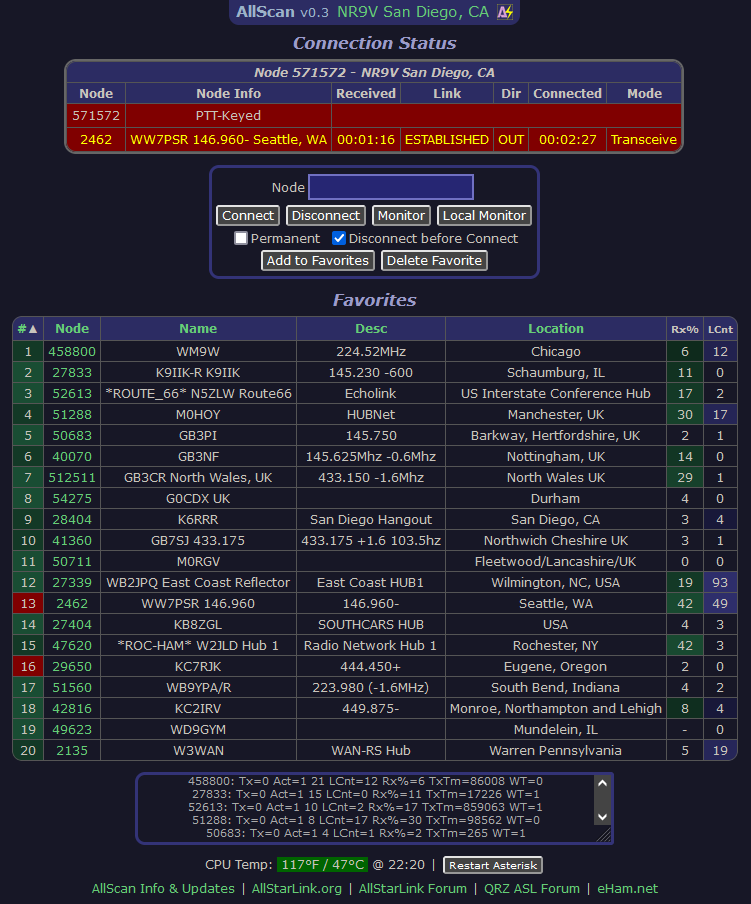
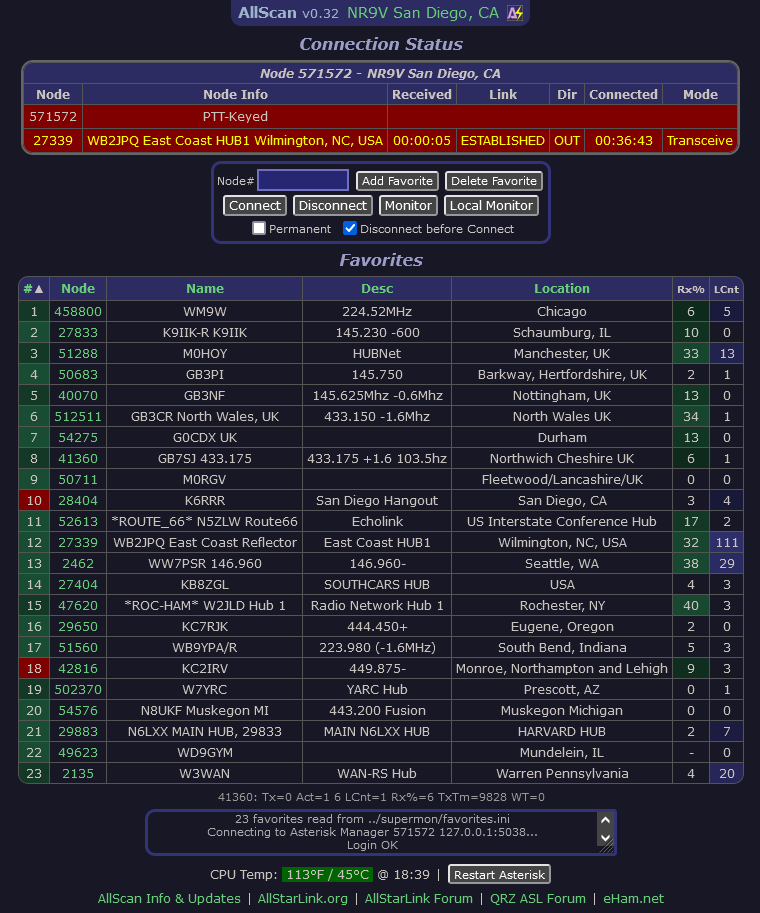
GUI optimizations. Add default favorites file docs/favorites.ini.sample and give user option to copy this to ./favoriies.ini if no favorites.ini file was found in . or ../supermon/.

diff --git a/css/main.css b/css/main.css
@@ -80,15 +80,15 @@ display:inline-block;
 fieldset, #statmsg {
 border:solid 3px rgb(51,51,119);
 padding:3px;
-margin:8px 3px 3px;
+margin:3px;
 border-radius:10px;
 }
 fieldset legend {
 font-size:16px;
 color:hsl(180,75%,50%);
 }
-label {
-font-size:12px;
+form + h2 {
+margin-top:3px;
 }
 header {
 display:inline-block;
@@ -140,12 +140,19 @@ cursor:pointer;
 vertical-align:text-bottom;
 border-radius:0;
 }
+#node {
+border:2px solid hsl(240,40%,60%);
+margin:2px;
+padding:0 2px;
+font-size:14px;
+width:6em;
+}
 #statmsg {
 display:inline-block;
-margin:0.5em;
+margin:3px;
 min-width:460px;
 max-width:750px;
-height:4.4em;
+height:3.3em;
 font-size:0.9em;
 line-height:1.2;
 overflow-y:scroll;
@@ -164,7 +171,7 @@ margin:0 auto;
 clear:both;
 }
 td {
-max-width:24em;
+max-width:32em;
 }
 /* @media screen and (min-width: 750px) {
 	td { max-width:30em; }
@@ -258,8 +265,8 @@ padding:0;
 border-radius:12px;
 }
 
-input[type=button].small, input[type=submit].small {
-font-size:10px;
+label, input[type=button].small, input[type=submit].small {
+font-size:11px;
 }
 
 a.menu {

diff --git a/index.php b/index.php
@@ -2,14 +2,16 @@
 require_once("include/common.php");
 require_once("include/viewUtils.php");
 require_once("include/hwUtils.php");
-define('API', '../supermon/'); // Relative path to AllMon/Supermon directory
 $html = new Html();
-$msg = [];
-
 htmlInit('AllScan - AllStarLink Favorites Management & Scanning Web App');
+
+define('favsini', 'favorites.ini');
+define('smfavsini', '../supermon/favorites.ini');
+$favsFile = file_exists(favsini) ? favsini : (file_exists(smfavsini) ? smfavsini : null);
 
 // Load node and host definitions
 $hosts = [];
+$msg = [];
 $nodes = readAllmonIni($msg, $hosts);
 if(!empty($nodes) && !empty($hosts)) {
 	$node = $nodes[0];
@@ -53,7 +55,7 @@ if(!isset($node) || $astdb === false)
 	asExit(implode(BR, $msg));
 
 $autodisc = !isset($parms['autodisc']) || $parms['autodisc'];
-$remNode = isset($parms['node']) && is_numeric($parms['node']) ? $parms['node'] : '';
+$remNode = (isset($parms['node']) && validDbID($parms['node']) && strlen($parms['node']) < 9) ? $parms['node'] : '';
 ?>
 
 <h2>Connection Status</h2>
@@ -71,10 +73,12 @@ $remNode = isset($parms['node']) && is_numeric($parms['node']) ? $parms['node'] 
 
 <form id="nodeForm" method="post" action="/allscan/">
 <fieldset>
-<input type=hidden id="conncnt" name="conncnt" value="0">
 <input type=hidden id="localnode" name="localnode" value="<?php echo $node ?>">
-<label for="node">Node</label><input type=number id="node" name="node" value="<?php echo $remNode ?>"
-	maxlength="10" style="border:2px solid hsl(240,40%,60%);margin:3px;font-size:14px;width:11em;">
+<input type=hidden id="conncnt" name="conncnt" value="0">
+<label for="node">Node#</label><input type="text" inputmode="numeric" pattern="[0-9]*"
+	id="node" name="node" maxlength="8" value="<?php echo $remNode ?>">
+<input type=submit name="Submit" value="Add Favorite" class="small">
+<input type=submit name="Submit" value="Delete Favorite" class="small">
 <br>
 <input type=button value="Connect" onClick="connectNode('connect');">
 <input type=button value="Disconnect" onClick="disconnectNode();">
@@ -82,10 +86,8 @@ $remNode = isset($parms['node']) && is_numeric($parms['node']) ? $parms['node'] 
 <input type=button value="Local Monitor" onClick="connectNode('localmonitor');">
 <br>
 <input type=checkbox id="permanent"><label for="permanent">Permanent</label>&nbsp;
-<input type=checkbox id="autodisc"<?php if($autodisc) echo ' checked' ?>><label for="autodisc">Disconnect before Connect</label>
-<br>
-<input type=submit name="Submit" value="Add to Favorites">
-<input type=submit name="Submit" value="Delete Favorite">
+<input type=checkbox id="autodisc"<?php if($autodisc) echo ' checked' ?>><label
+	for="autodisc">Disconnect before Connect</label>
 </fieldset>
 </form>
 
@@ -94,11 +96,13 @@ h2('Favorites');
 // Read in favorites.ini
 $favs = [];
 $favcmds = [];
-$favsFile = API . 'favorites.ini';
-if(!file_exists($favsFile)) {
-	p("$favsFile not found. Check Supermon/AllMon install or create blank file with www-data writeable permissions.");
+if(!$favsFile) {
+	msg("favorites.ini not found. Check Supermon install or click below to create file in allscan directory.");
+	echo '<form id="nodeForm" method="post" action="/allscan/"><fieldset>' . NL
+		.'<input type=submit name="Submit" value="Create Favorites.ini File" class="small">' . NL
+		.'</fieldset></form>' . BR;
 } else {
-	$favsIni = parse_ini_file(API . 'favorites.ini', true);
+	$favsIni = parse_ini_file($favsFile, true);
 	if($favsIni === false) {
 		p("Error parsing $favsFile. Check file format/permissions or create file with www-data writeable permissions.");
 	} else {
@@ -131,6 +135,7 @@ if(!file_exists($favsFile)) {
 		}
 		// if(count($favcmds))
 			// varDump($favcmds);
+		$msg[] = _count($favs) . " favorites read from $favsFile";
 	}
 }
 
@@ -212,28 +217,11 @@ asExit();
 
 // ---------------------------------------------------
 
-function sortArray($list, $col, $desc) {
-	$colVals = [];
-	foreach($list as $val)
-		$colVals[] = $val[$col];
-	// Sort the column data while retaining array keys
-	if($desc)
-		arsort($colVals);
-	else
-		asort($colVals);
-	// Reorder the input array
-	$out = [];
-	foreach(array_keys($colVals) as $k)
-		$out[] = $list[$k];
-	return $out;
-}
-
 function processForm($parms, &$msg) {
-	global $astdb;
+	global $astdb, $favsFile;
 	$node = $parms['node'];
-	$fname = API . 'favorites.ini';
 	switch($parms['Submit']) {
-		case "Add to Favorites":
+		case "Add Favorite":
 			$msg[] = "Add Node $node to Favorites requested";
 			if(!validDbID($node)) {
 				$msg[] = "Invalid node#.";
@@ -245,10 +233,10 @@ function processForm($parms, &$msg) {
 			}
 			// Parse file lines and add new favorite after last label,cmd lines.
 			// Note: Does not look at [general] or [node#] sections (TBI)
-			if(($favs = readFileLines($fname, $msg, true)) === false)
+			if(($favs = readFileLines($favsFile, $msg, true)) === false)
 				break;
 			$n = count($favs);
-			$msg[] = "$n lines read from $fname";
+			$msg[] = "$n lines read from $favsFile";
 			$lastCmdLn = 0;
 			for($i=0; $i < $n; $i++) {
 				if(strpos($favs[$i], 'cmd[]') === 0) {
@@ -269,9 +257,9 @@ function processForm($parms, &$msg) {
 			$cmd = "cmd[] = \"rpt cmd %node% ilink 3 $node\"";
 			array_splice($favs, $insertLn, 0, [$label, $cmd, '']);
 			$n = count($favs);
-			if(!writeFileLines($fname, $favs, $msg))
+			if(!writeFileLines($favsFile, $favs, $msg))
 				break;
-			$msg[] = "Successfully wrote $n lines to $fname";
+			$msg[] = "Successfully wrote $n lines to $favsFile";
 			break;
 		case "Delete Favorite":
 			$msg[] = "Delete Node $node from Favorites requested";
@@ -281,23 +269,23 @@ function processForm($parms, &$msg) {
 			}
 			// Parse file lines and delete favorite's label,cmd lines.
 			// Note: Does not look for [general] or [node#] sections
-			if(($favs = readFileLines($fname, $msg, true)) === false)
+			if(($favs = readFileLines($favsFile, $msg, true)) === false)
 				break;
 			$n = count($favs);
-			$msg[] = "$n lines read from $fname";
+			$msg[] = "$n lines read from $favsFile";
 			$lastCmdLn = 0;
 			for($i=0; $i < $n; $i++) {
 				if(strpos($favs[$i], 'cmd[]') == 0 && strpos($favs[$i], " $node\""))
 					$delLn = $i + 1;
 			}
 			if(!isset($delLn)) {
-				$msg[] = "Node $node not found in $fname";
+				$msg[] = "Node $node not found in $favsFile";
 				break;
 			}
 			$nLines = 2;
 			$startLn = $delLn - $nLines;
 			if($startLn <= 0) {
-				$msg[] = "Invalid $fname format";
+				$msg[] = error("Invalid $favsFile format");
 				break;
 			}
 			// Also delete blank line after entry if present
@@ -306,9 +294,36 @@ function processForm($parms, &$msg) {
 			for($i=0; $i < $nLines; $i++)
 				unset($favs[$startLn + $i]);
 			$n = count($favs);
-			if(!writeFileLines($fname, $favs, $msg))
+			if(!writeFileLines($favsFile, $favs, $msg))
 				break;
-			$msg[] = "Successfully wrote $n lines to $fname";
+			$msg[] = "Successfully wrote $n lines to $favsFile";
+			break;
+		case "Create Favorites.ini File":
+			$from = 'docs/favorites.ini.sample';
+			$to = favsini;
+			if(copy($from, $to)) {
+				$msg[] = "Copied $from to $to OK";
+				chmod($to, 0664);
+				$favsFile = $to;
+			} else {
+				$msg[] = error("Copy $from to $to Error. Check directory permissions.");
+			}
 			break;
 	}
+}
+
+function sortArray($list, $col, $desc) {
+	$colVals = [];
+	foreach($list as $val)
+		$colVals[] = $val[$col];
+	// Sort the column data while retaining array keys
+	if($desc)
+		arsort($colVals);
+	else
+		asort($colVals);
+	// Reorder the input array
+	$out = [];
+	foreach(array_keys($colVals) as $k)
+		$out[] = $list[$k];
+	return $out;
 }

diff --git a/stats/stats.php b/stats/stats.php
@@ -21,10 +21,6 @@ foreach($nodes as $n) {
 	}
 }
 $cnt = count($nodes);
-
-//sendData(['status' => "$cnt valid nodes in request"], 'stats');
-//exit();
-
 $stats = [];
 $time = time();
 

diff --git a/README.md b/README.md
@@ -11,15 +11,15 @@ See [screenshot.png](https://github.com/davidgsd/AllScan/blob/main/screenshot.pn
 
 4. Allow favorites to be easily edited, deleted, and copied/pasted.
 
-5. Allow 'Scanning' of Favorites and other nodes by leveraging the ASL database and info such as Keyed status and Connected Nodes data. AllScan shows what favorites are active and have recently been active, and in a future release will allow connecting to favorites one at a time sequentially and if no activity after a configurable time then disconnecting and moving to the next.
+5. Allow 'Scanning' of Favorites and other nodes using ASL stats info such as Keyed status and Connected Nodes data. AllScan shows what favorites are active and have recently been active, and in a future release will allow connecting to favorites one at a time sequentially and if no activity after a configurable time then disconnecting and moving to the next.
 
-These features essentially give ASL the same memory management and scan capabilities that analog radios have had for decades. AllScan follows the latest web development standards and best-practices, with PHP, JavaScript, HTML, and CSS cleanly partitioned. AllScan is mobile-friendly and optimized for ease of use on both small and large screens. AllScan is intended to work well in both PC browsers and mobile browsers, using the same UI for both.
+This essentially gives ASL the same memory management and scan capabilities that analog radios have had for decades. AllScan follows the latest web development standards and best-practices, with PHP, JavaScript, HTML, and CSS cleanly partitioned. No bloated frameworks or 3rd party libraries are used. AllScan is mobile-friendly and optimized for ease of use on both small and large screens. AllScan is intended to work well in both PC browsers and mobile browsers, using the same UI for both.
 
-Currently AllScan is Beta software. It supports showing detailed node status, supporting connect, disconnect and other common commands, supporting one-click add/delete of favorites to favorites.ini, showing the Favorites list and color-coded ASL stats, and allowing the Favorties Table to be sorted by any column.
+AllScan is currently Beta software. It supports showing detailed node status, supporting connect, disconnect and other common commands, supporting one-click add/delete of favorites to favorites.ini, showing the Favorites list and color-coded ASL stats, and allowing the Favorties Table to be sorted by any column.
 
-Prior to installing AllScan it is recommended that you have a working install of SuperMon or AllMon2. AllScan can automatically read their config files and thereby need no additional configuration. If you use AllMon rather than Supermon, because it does not have a favorites.ini file you would want to place a blank favorites.ini file in the allscan directory. (AllMon's controlpanel.ini file may also be supported at some point.)
+AllScan supports multiple locations of the favorites.ini file, giving priority to the allscan folder, or secondarily using the ../supermon folder. You can in fact have several sets of favorites and switch between them, contact me for details on that. If no favorites.ini file is found AllScan will ask you if you'd like to create the file and if so will copy the the docs/favorites.ini.sample file to ./favorites.ini, which has a small list of popular nodes to get you started. AllMon's controlpanel.ini file may also be supported at some point.
 
-AllScan is very easy-to-use and can be downloaded and installed in minutes. Currently AllScan supports favorites.ini entries that refer to connecting nodes eg. 'cmd[] = "rpt cmd %node% ilink 3 [node#]"' but will also support other types of commands at some point. The code also saves a backup copy to favorites.ini.bak in case of any issue.
+Prior to installing AllScan it is recommended that you have a working install of SuperMon or AllMon2. AllScan can automatically read their config files and thereby need no additional configuration. AllScan is very easy-to-use and can be downloaded and installed in minutes. Currently AllScan supports favorites.ini entries that refer to connecting nodes eg. 'cmd[] = "rpt cmd %node% ilink 3 [node#]"' but will also support other types of commands at some point. The code also saves a backup copy to favorites.ini.bak in case of any issue.
 
 As AllScan receives stats data from the ASL stats server it updates the Favorites Table rows with color coded details showing the following:
 
@@ -44,7 +44,8 @@ You will need SSH access to your node and should have basic familiarity with Lin
 Once you are logged in by SSH to your node run the following commands:
 
 	cd /var/www/html
-	mkdir allscan; sudo chmod 775 allscan; sudo chgrp $USER allscan
+	mkdir allscan; sudo chmod 775 allscan
+	sudo chgrp www-data allscan # If www-data not defined replace with web server's group name
 	wget https://github.com/davidgsd/AllScan/archive/refs/heads/main.zip
 	unzip main.zip; rm main.zip
 	cp -rf AllScan-main/* allscan/
@@ -53,14 +54,18 @@ Once you are logged in by SSH to your node run the following commands:
 	# Below needed only if you do not have php-curl installed and get ASL stats errors
 	sudo apt-get install php-curl; sudo service apache2 restart
 
-Now open a browser and go to your node's IP address followed by /allscan/ eg. `http://192.168.1.23/allscan/`, and bookmark that URL. You should see a Connection Status table showing your Node number(s), Call Sign and Location, a control form where you can enter node numbers and use the Connect, Disconnect, etc. buttons, and a Favorites table with at least a few favorites listed. If any of these are not showing check your allmon.ini and global.inc files in /var/www/html/supermon/ and make sure they are properly configured. 
+Now open a browser and go to your node's IP address followed by /allscan/ eg. `http://192.168.1.23/allscan/`, and bookmark that URL. You should see a Connection Status table showing your Node number(s), Call Sign and Location, a control form where you can enter node numbers and use the Connect, Disconnect, etc. buttons, and a Favorites table with at least a few favorites listed. If any of these are not showing check your allmon.ini and global.inc files in /var/www/html/supermon/ and make sure they are properly configured.
 
 # Update
 The update process is similar to the install process with exception that you don't need to create the allscan directory. To update AllScan log into your node with SSH and run the following commands:
 
 	cd /var/www/html
 
-	# Note: To make a backup copy of your existing allscan folder do the following:
+	# If the allscan dir does not have 775 permissions or the web server group name run the following
+	sudo chmod 775 allscan
+	sudo chgrp www-data allscan # If www-data not defined replace with web server's group name
+
+	# To make a backup copy of your existing allscan folder do the following
 	# cp -a allscan allscan-old
 
 	wget https://github.com/davidgsd/AllScan/archive/refs/heads/main.zip
@@ -82,14 +87,16 @@ Also note: I have not yet tested AllScan on a node with EchoLink enabled but tha
 If you do not have a node or if your node is out-of-date, noisy, or unreliable, take a look at the following post: [How To Build a High-Quality Full-Duplex AllStar Node for Under $200](https://forums.qrz.com/index.php?threads/how-to-build-a-professional-grade-full-duplex-allstar-node-for-under-200.839842/).
 
 # Troubleshooting / FAQs
-If you get a permissions error when trying to Add a Favorite in AllScan, check that the /var/www/html/supermon dir has 775 permissions and www-data group, and that the /var/www/html/supermon/favorites.ini file exists and has 664 permissions and www-data as the group. These settings should already be that way if your Supermon install is properly working, otherwise it would not be able to edit and save the favorites.ini file. As a test you can go into Supermon, click the Configuration Editor button and try adding a blank line to favorites.ini and see if it saves OK. If not, there was something off with the Supermon install. In that case you might want to check on the Supermon groups.io page to let them know, or just run the following commands to correct those settings:
+If you get a permissions error when trying to Add a Favorite in AllScan, check that the /var/www/html/allscan and supermon dirs have 775 permissions and www-data group, and that the favorites.ini file exists in one or both of directories and has 664 permissions and www-data as the group. These settings should already be that way if your Supermon install is properly working, otherwise it would not be able to edit and save the favorites.ini file. As a test you can go into Supermon, click the Configuration Editor button and try adding a blank line to favorites.ini and see if it saves OK. If not, there is something improperly configured with the Supermon install. The following commands should correct those settings:
 
 	cd /var/www/html/supermon/
 	sudo touch favorites.ini
 	sudo chmod 664 favorites.ini
 	sudo chmod 775 .
 	sudo chgrp www-data favorites.ini .
-	
+
+If you keep your favorites.ini file in the allscan directory and see error messages when writing the file from allscan, run the same steps as above but in the /var/www/html/allscan/ folder.
+
 # Contact
 If you have any questions email chc_media at yahoo dot com. 73, NR9V
 
@@ -100,20 +107,17 @@ If you have any questions email chc_media at yahoo dot com. 73, NR9V
 4. Other features that are highly requested or that seem like a good fit.
 
 # Release Notes
+**v0.32 2022-12-20**<br>
+GUI optimizations. Add default favorites file docs/favorites.ini.sample and give user option to copy this to ./favoriies.ini if no favorites.ini file was found in . or ../supermon/.
+
 **v0.31 2022-12-20**<br>
 Use PHP cURL lib for ASL Stats data download if present. Move ASL stats output messages to <p> tag under Favorites Table.
 
 **v0.3 2022-12-19**<br>
-Implement ASL Stats functions and color coding of Favorites Table '#' and new 'Rx%' and 'LCnt' columns. Color codes for '#' col: Dark Green: Node Active, Medium Green: Active, WT enabled, Red: Node is Keyed. Rx% refers to node's reported TxTime divided by its Uptime. LCnt is the reported number of Connected Links (ie. nodes/hubs/links). ASL APIs are limited to 30 requests/minute per IP Address. AllScan currently defaults to one stats request per 2.5 seconds but will reduce that frequency if over limit http code eg. 429 or another error is encountered during an API request.
-
-**v0.26 2022-12-19**<br>
-Implement ASL Stats API infrastructure. Improve handling of page reload logic after browser JS online event when node is no longer accessible.
+Implement ASL Stats functions, color coding of Favorites Table and new 'Rx%' and 'LCnt' columns. ASL APIs are limited to 30 requests/minute per IP Address. AllScan defaults to one stats request per 2.5 seconds but will reduce that frequency if over limit http code eg. 429 or another error is encountered during an API request. Improve handling of page reload logic after browser JS online event when node is not accessible.
 
 **v0.25 2022-12-19**<br>
-Enable automatic reading of allmon.ini file also from /etc/asterisk/, and astdb.txt file from allscan's directory or from ../supermon/ or /var/log/asterisk/.
-
-**v0.24 2022-12-18**<br>
-Enable automatic reading of allmon.ini file from allscan's directory or from ../supermon/ or ../allmon/allmon.ini.php. Provide detailed messages about any issues found when trying to read the file.
+Enable automatic reading of astdb.txt file from allscan's directory or from ../supermon/ or /var/log/asterisk/. Enable automatic reading of allmon.ini file from allscan's directory or from /etc/asterisk/, ../supermon/, or ../allmon/allmon.ini.php. Provide detailed messages about any issues found when trying to read the file.
 
 **v0.23 2022-12-18**<br>
 When JS online event is received, reload page after 2 Sec delay, to automatically restart server event-stream connection after PC/browser was asleep or offline. Add print of astdb.txt file Last Update time.
